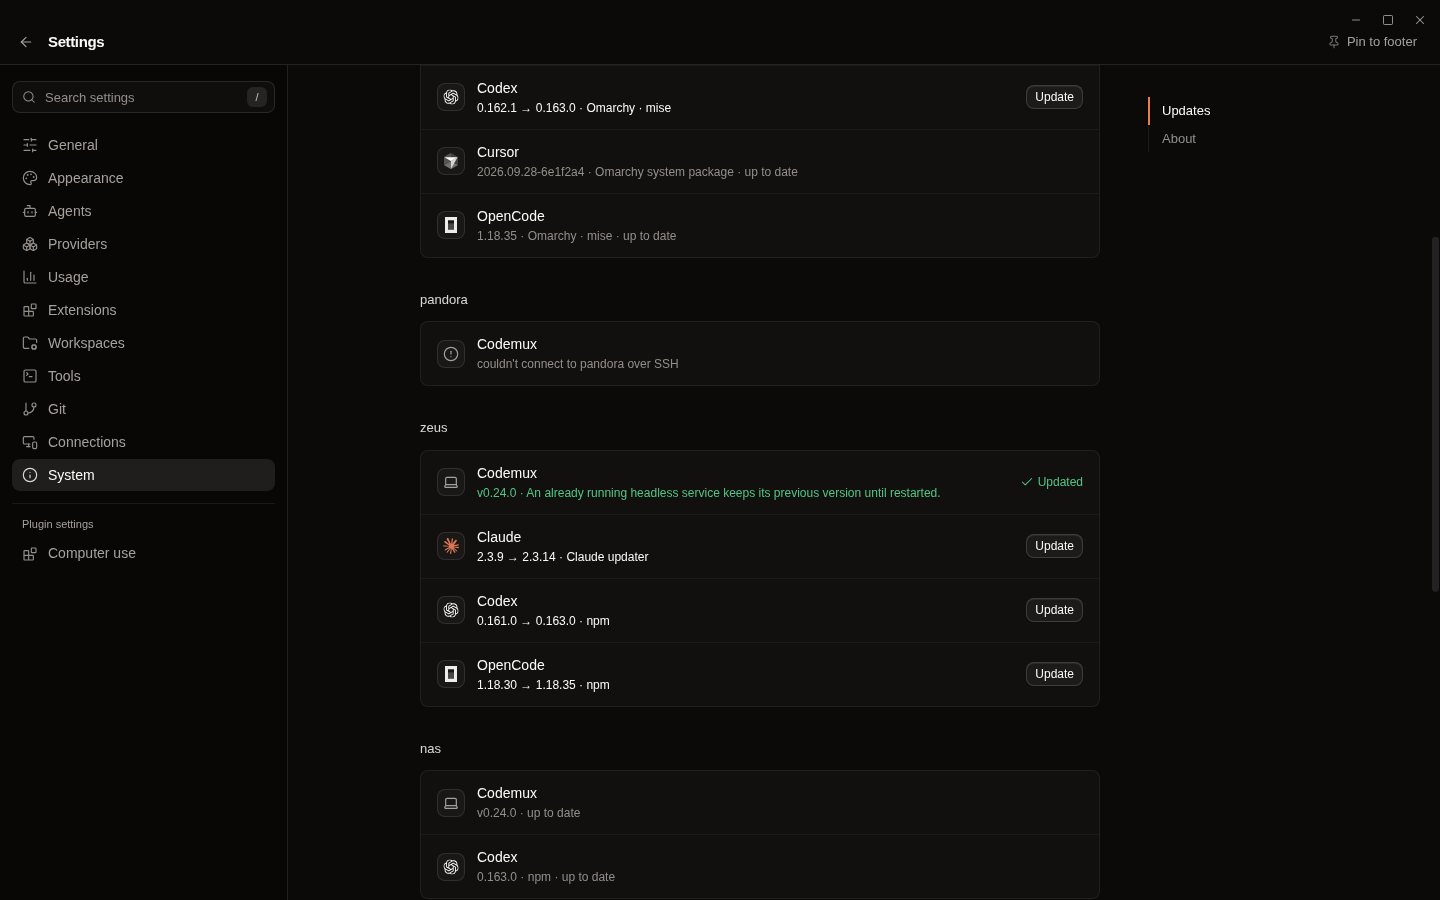
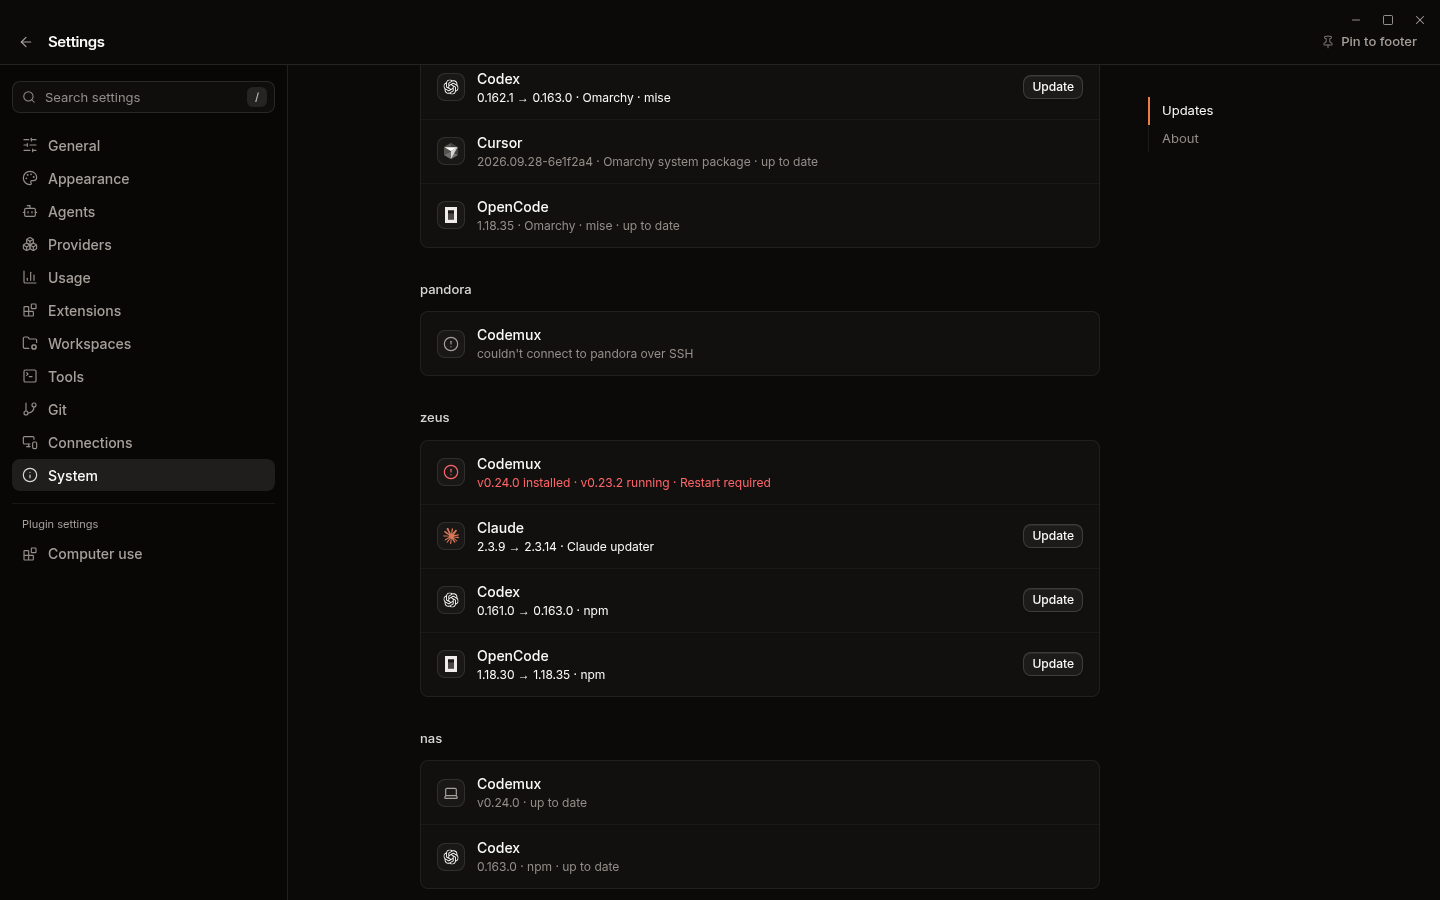
fix(remote): show when running helper needs restart

diff --git a/src/components/settings/updates-section.test.tsx b/src/components/settings/updates-section.test.tsx
@@ -31,8 +31,13 @@ const report = (provider: string, patch: Record<string, unknown> = {}) => ({
   ...patch,
 });
 
+let installedVersion = "0.23.0";
+let runningVersion = "0.23.0";
+
 beforeEach(() => {
   invoke.mockReset();
+  installedVersion = "0.23.0";
+  runningVersion = "0.23.0";
   useUpdateAll.setState({ machines: {}, items: {}, running: false, summary: null });
   invoke.mockImplementation(async (cmd: string) => {
     switch (cmd) {
@@ -42,8 +47,9 @@ beforeEach(() => {
           report("cursor", { can_update: false, manager: "Omarchy system package", message: "Run `omarchy update`" }),
         ];
       case "provider_updates_device":
-        return { host_id: 2, helper_version: "0.23.0", app_version: "0.24.0", providers: [report("codex")], error: null };
+        return { host_id: 2, helper_version: installedVersion, running_version: runningVersion, serve_alive: true, app_version: "0.24.0", providers: [report("codex")], error: null };
       case "device_helper_update":
+        installedVersion = "0.24.0";
         return { host_id: 2, status: "upgraded", from: "0.23.0", to: "0.24.0", message: "An already running headless service keeps its previous version until restarted." };
       case "provider_update_local":
         return report("claude", { installed_version: "1.1.0", available: false });
@@ -77,7 +83,23 @@ describe("UpdatesSection", () => {
     expect((options as { description: string }).description).toContain("buildbox · Codex: npm failed (exit 1)");
     expect(invoke).toHaveBeenCalledWith("provider_update_local", { provider: "claude" });
     expect(await screen.findByText(/EACCES: permission denied/)).toBeInTheDocument();
-    expect(screen.getByText(/headless service keeps its previous version until restarted/)).toBeInTheDocument();
+    expect(screen.getByText(/v0.24.0 installed · v0.23.0 running · Restart required/)).toBeInTheDocument();
     expect(screen.getByRole("status")).toHaveTextContent("2 updated, 1 failed");
+  });
+
+  it("shows a restart requirement after refreshing a device with an older running daemon", async () => {
+    installedVersion = "0.24.0";
+    runningVersion = "0.23.0";
+    invoke.mockImplementation(async (cmd: string) => {
+      if (cmd === "provider_updates_local") return [];
+      if (cmd === "provider_updates_device") {
+        return { host_id: 2, helper_version: installedVersion, running_version: runningVersion, serve_alive: true, app_version: "0.24.0", providers: [], error: null };
+      }
+      throw new Error(`unexpected ${cmd}`);
+    });
+
+    render(<UpdatesSection />);
+    expect(await screen.findByText("v0.24.0 installed · v0.23.0 running · Restart required")).toBeInTheDocument();
+    expect(screen.getByRole("button", { name: "Restart required" })).toBeDisabled();
   });
 });

diff --git a/src/components/settings/updates-section.tsx b/src/components/settings/updates-section.tsx
@@ -29,6 +29,7 @@ import {
   PROVIDER_LABELS,
   buildPlan,
   helperIsOutdated,
+  helperNeedsRestart,
   hostKey,
   itemKey,
   useUpdateAll,
@@ -94,6 +95,7 @@ export function UpdatesSection() {
   const showLoading = useDelayedPending(loading);
   const appPending = app.available;
   const total = plan.items.length + (appPending ? 1 : 0);
+  const restartRequired = Object.values(known).some(helperNeedsRestart);
 
   const start = async (approved: UpdatePlan) => {
     setConfirming(null);
@@ -136,7 +138,7 @@ export function UpdatesSection() {
               onClick={() => setConfirming(plan)}
             >
               {running && <Spinner className="size-3.5" aria-hidden />}
-              {running ? "Updating…" : total ? `Update all (${total})` : "Up to date"}
+              {running ? "Updating…" : total ? `Update all (${total})` : restartRequired ? "Restart required" : "Up to date"}
             </Button>
           </>
         }
@@ -394,16 +396,23 @@ function HelperRow({ machine, state }: { machine: MachineKey; state: MachineStat
     );
   }
   const outdated = helperIsOutdated(state);
+  const restartRequired = helperNeedsRestart(state);
   const detail =
     item?.phase === "failed"
       ? { text: item.message ?? "Update failed", tone: "error" as const }
-      : item?.phase === "updated"
-        ? { text: `v${state.helperVersion}${item.message ? ` · ${item.message}` : ""}`, tone: "done" as const }
-        : outdated
+      : outdated
           ? { text: `v${state.helperVersion} → v${state.appVersion}`, tone: "available" as const }
-          : { text: `v${state.helperVersion} · up to date`, tone: "muted" as const };
+          : restartRequired
+            ? { text: `v${state.helperVersion} installed · v${state.runningVersion} running · Restart required`, tone: "error" as const }
+            : item?.phase === "updated"
+              ? { text: `v${state.helperVersion}${item.message ? ` · ${item.message}` : ""}`, tone: "done" as const }
+              : state.serveAlive === false
+                ? { text: `v${state.helperVersion} installed · service stopped`, tone: "muted" as const }
+                : !state.runningVersion
+                  ? { text: `v${state.helperVersion} installed · running version unavailable`, tone: "muted" as const }
+                  : { text: `v${state.helperVersion} · up to date`, tone: "muted" as const };
   return (
-    <Row icon={icon} title="Codemux" detail={detail.text} tone={detail.tone}>
+    <Row icon={restartRequired ? <CircleAlert className="size-4 text-destructive" aria-hidden /> : icon} title="Codemux" detail={detail.text} tone={detail.tone}>
       {item && item.phase !== "failed" ? (
         <ProgressBadge item={item} />
       ) : outdated ? (

diff --git a/src/dev/tauri-mock.ts b/src/dev/tauri-mock.ts
@@ -4772,13 +4772,13 @@ const mockLocalProviders: MockProviderReport[] = [
   mockReport("cursor", "2026.09.28-6e1f2a4", "2026.09.28-6e1f2a4", "Omarchy system package", false, "This provider is owned by the system. Run `omarchy update` in a terminal, then restart Codemux."),
   mockReport("opencode", "1.18.35", "1.18.35", "Omarchy · mise"),
 ];
-const mockDeviceProviders = new Map<number, { helper: string; providers: MockProviderReport[] }>([
-  [2, { helper: "0.23.2", providers: [
+const mockDeviceProviders = new Map<number, { helper: string; running: string; providers: MockProviderReport[] }>([
+  [2, { helper: "0.23.2", running: "0.23.2", providers: [
     mockReport("claude", "2.3.9", "2.3.14", "Claude updater"),
     mockReport("codex", "0.161.0", "0.163.0", "npm"),
     mockReport("opencode", "1.18.30", "1.18.35", "npm"),
   ] }],
-  [3, { helper: "0.24.0", providers: [
+  [3, { helper: "0.24.0", running: "0.24.0", providers: [
     mockReport("codex", "0.163.0", "0.163.0", "npm"),
   ] }],
 ]);
@@ -6074,10 +6074,10 @@ const handlers: Record<string, Handler> = {
     const hostId = Number(a.hostId);
     const host = mockHosts.find((h) => h.id === hostId);
     if (!host || hostId === 1) {
-      return { host_id: hostId, helper_version: null, app_version: "0.24.0", providers: null, error: `couldn't connect to ${host?.name ?? "the device"} over SSH` };
+      return { host_id: hostId, helper_version: null, running_version: null, serve_alive: null, app_version: "0.24.0", providers: null, error: `couldn't connect to ${host?.name ?? "the device"} over SSH` };
     }
     const device = mockDeviceProviders.get(hostId)!;
-    return { host_id: hostId, helper_version: device.helper, app_version: "0.24.0", providers: device.providers.map((p) => ({ ...p })), error: null };
+    return { host_id: hostId, helper_version: device.helper, running_version: device.running, serve_alive: true, app_version: "0.24.0", providers: device.providers.map((p) => ({ ...p })), error: null };
   },
   provider_update_local: async (a) => {
     await new Promise((resolve) => setTimeout(resolve, 1600));

diff --git a/src/stores/update-all-store.ts b/src/stores/update-all-store.ts
@@ -22,6 +22,8 @@ export const hostKey = (id: number): MachineKey => `host:${id}`;
 export interface DeviceProvidersReport {
   host_id: number;
   helper_version: string | null;
+  running_version: string | null;
+  serve_alive: boolean | null;
   app_version: string;
   providers: ProviderUpdateReport[] | null;
   error: string | null;
@@ -41,6 +43,8 @@ export interface MachineState {
   providers: ProviderUpdateReport[];
   /** Devices only: the helper's version and this desktop's. */
   helperVersion?: string | null;
+  runningVersion?: string | null;
+  serveAlive?: boolean | null;
   appVersion?: string;
   error?: string | null;
 }
@@ -101,6 +105,10 @@ export function isOlderVersion(a: string, b: string): boolean {
 
 export function helperIsOutdated(state: MachineState | undefined): boolean {
   return !!state?.helperVersion && !!state.appVersion && isOlderVersion(state.helperVersion, state.appVersion);
+}
+
+export function helperNeedsRestart(state: MachineState | undefined): boolean {
+  return !!state?.helperVersion && !!state.runningVersion && state.helperVersion !== state.runningVersion;
 }
 
 /**
@@ -200,12 +208,14 @@ export const useUpdateAll = create<Store>((set, get) => {
         patchMachine(key, {
           providers: report.providers ?? [],
           helperVersion: report.helper_version,
+          runningVersion: report.running_version,
+          serveAlive: report.serve_alive,
           appVersion: report.app_version,
           error: report.error,
           checkedAt: Date.now(),
         });
       } catch (error) {
-        patchMachine(key, { error: String(error), helperVersion: null });
+        patchMachine(key, { error: String(error), helperVersion: null, runningVersion: null, serveAlive: null });
       } finally {
         patchMachine(key, { loading: false });
       }

diff --git a/src-tauri/src/commands/provider_updates.rs b/src-tauri/src/commands/provider_updates.rs
@@ -664,8 +664,12 @@ pub async fn provider_update_local(provider: ProviderKind) -> Result<ProviderUpd
 #[derive(Clone, Debug, Serialize)]
 pub struct DeviceProviders {
     pub host_id: i64,
-    /// The device's `codemux-remote` version, or None when unreachable.
+    /// The installed `codemux-remote` version, or None when unreachable.
     pub helper_version: Option<String>,
+    /// Version reported by the running headless service, if it answered.
+    pub running_version: Option<String>,
+    /// Whether `serve status` found a live daemon. None for older helpers.
+    pub serve_alive: Option<bool>,
     /// This desktop's version: the helper is current when not older.
     pub app_version: String,
     /// None when the helper predates `providers` or the device is offline.
@@ -715,6 +719,8 @@ fn parse_device_report(host_id: i64, stdout: &str) -> DeviceProviders {
     let mut report = DeviceProviders {
         host_id,
         helper_version: None,
+        running_version: None,
+        serve_alive: None,
         app_version: env!("CARGO_PKG_VERSION").into(),
         providers: None,
         error: None,
@@ -725,6 +731,9 @@ fn parse_device_report(host_id: i64, stdout: &str) -> DeviceProviders {
         };
         if value["name"] == "codemux-remote" {
             report.helper_version = value["version"].as_str().map(Into::into);
+        } else if let Some(alive) = value["alive"].as_bool() {
+            report.serve_alive = Some(alive);
+            report.running_version = value["running_version"].as_str().map(Into::into);
         } else if let Some(list) = value.get("providers") {
             report.providers = serde_json::from_value(list.clone()).ok();
         }
@@ -750,7 +759,7 @@ pub async fn provider_updates_device<R: tauri::Runtime>(
         let force = if force.unwrap_or(false) { " --force" } else { "" };
         // An older helper has no `providers`; report its version anyway.
         let script = device_script(&format!(
-            "version; \"$CMR\" providers check{force} 2>/dev/null || true"
+            "version; \"$CMR\" serve status 2>/dev/null || true; \"$CMR\" providers check{force} 2>/dev/null || true"
         ));
         match crate::ssh::exec::run_remote(&host.ssh_target, &script, Duration::from_secs(180))
             .await
@@ -759,6 +768,8 @@ pub async fn provider_updates_device<R: tauri::Runtime>(
             Err(error) => Ok(DeviceProviders {
                 host_id,
                 helper_version: None,
+                running_version: None,
+                serve_alive: None,
                 app_version: env!("CARGO_PKG_VERSION").into(),
                 providers: None,
                 error: Some(error),
@@ -1098,9 +1109,11 @@ mod tests {
     #[cfg(unix)]
     #[test]
     fn device_reports_tolerate_banners_and_older_helpers() {
-        let out = "Welcome to the box\n{\"name\":\"codemux-remote\",\"version\":\"0.24.0\",\"protocol_version\":3}\n{\"providers\":[{\"provider\":\"codex\",\"installed_version\":\"0.1.0\",\"latest_version\":\"0.2.0\",\"available\":true,\"manager\":\"Omarchy · mise\",\"can_update\":true,\"message\":null}]}\n";
+        let out = "Welcome to the box\n{\"name\":\"codemux-remote\",\"version\":\"0.24.0\",\"protocol_version\":3}\n{\"alive\":true,\"running_version\":\"0.23.0\",\"live_terminals\":2}\n{\"providers\":[{\"provider\":\"codex\",\"installed_version\":\"0.1.0\",\"latest_version\":\"0.2.0\",\"available\":true,\"manager\":\"Omarchy · mise\",\"can_update\":true,\"message\":null}]}\n";
         let report = parse_device_report(7, out);
         assert_eq!(report.helper_version.as_deref(), Some("0.24.0"));
+        assert_eq!(report.running_version.as_deref(), Some("0.23.0"));
+        assert_eq!(report.serve_alive, Some(true));
         let providers = report.providers.unwrap();
         assert_eq!(providers[0].provider, ProviderKind::Codex);
         assert!(providers[0].available && report.error.is_none());
@@ -1109,6 +1122,8 @@ mod tests {
         // for an update instead of claiming the device has no agents.
         let old = parse_device_report(7, "{\"name\":\"codemux-remote\",\"version\":\"0.20.0\"}\n");
         assert_eq!(old.helper_version.as_deref(), Some("0.20.0"));
+        assert_eq!(old.running_version, None);
+        assert_eq!(old.serve_alive, None);
         assert!(old.providers.is_none() && old.error.unwrap().contains("Update Codemux"));
         assert!(parse_device_report(7, "").error.unwrap().contains("isn't set up"));
     }

diff --git a/src-tauri/src/bin/codemux_remote.rs b/src-tauri/src/bin/codemux_remote.rs
@@ -756,11 +756,13 @@ fn run_serve_status(state_dir_arg: Option<PathBuf>) -> ExitCode {
         }
         Ok(Some(m)) => {
             let alive = codemux_lib::remote::manifest::pid_alive(m.pid);
-            // When alive, ask the running daemon how many live PTY sessions
-            // it has for diagnostics. Best-effort: a probe failure reports
-            // null.
-            let live_terminals = if alive {
-                probe_live_terminals(&m.endpoint, &m.secret)
+            // The installed binary can be newer than a running daemon after
+            // a session-safe upgrade. Ask the daemon for its own version so
+            // Settings can keep showing that restart requirement after a
+            // desktop relaunch. A failed probe reports null, never the
+            // installed version as though it were running.
+            let running = if alive {
+                probe_running_status(&m.endpoint, &m.secret)
             } else {
                 None
             };
@@ -770,7 +772,8 @@ fn run_serve_status(state_dir_arg: Option<PathBuf>) -> ExitCode {
                 "started_at": m.started_at,
                 "host_id": m.host_id,
                 "alive": alive,
-                "live_terminals": live_terminals,
+                "live_terminals": running.as_ref().and_then(|status| status.live_terminals),
+                "running_version": running.as_ref().and_then(|status| status.version.as_deref()),
             });
             println!("{}", payload);
             if alive {
@@ -786,11 +789,10 @@ fn run_serve_status(state_dir_arg: Option<PathBuf>) -> ExitCode {
     }
 }
 
-/// Best-effort probe of the running daemon's live PTY-session count via its
-/// `app_status` tool (`terminal_count`). Returns `None` on any failure
-/// (timeout, decode, daemon down) — callers treat `None` as "unknown".
+/// Best-effort probe of the running daemon's own version and live terminals
+/// via `app_status`. A failed probe leaves both values unknown.
 #[cfg(unix)]
-fn probe_live_terminals(endpoint: &str, secret: &str) -> Option<u64> {
+fn probe_running_status(endpoint: &str, secret: &str) -> Option<RunningServeStatus> {
     let http = reqwest::blocking::Client::builder()
         .timeout(std::time::Duration::from_secs(5))
         .build()
@@ -802,7 +804,17 @@ fn probe_live_terminals(endpoint: &str, secret: &str) -> Option<u64> {
         .send()
         .ok()?;
     let body: serde_json::Value = res.json().ok()?;
-    body.get("data")?.get("terminal_count")?.as_u64()
+    let data = body.get("data")?;
+    Some(RunningServeStatus {
+        live_terminals: data.get("terminal_count").and_then(serde_json::Value::as_u64),
+        version: data.get("version").and_then(serde_json::Value::as_str).map(str::to_owned),
+    })
+}
+
+#[cfg(unix)]
+struct RunningServeStatus {
+    live_terminals: Option<u64>,
+    version: Option<String>,
 }
 
 #[cfg(unix)]
